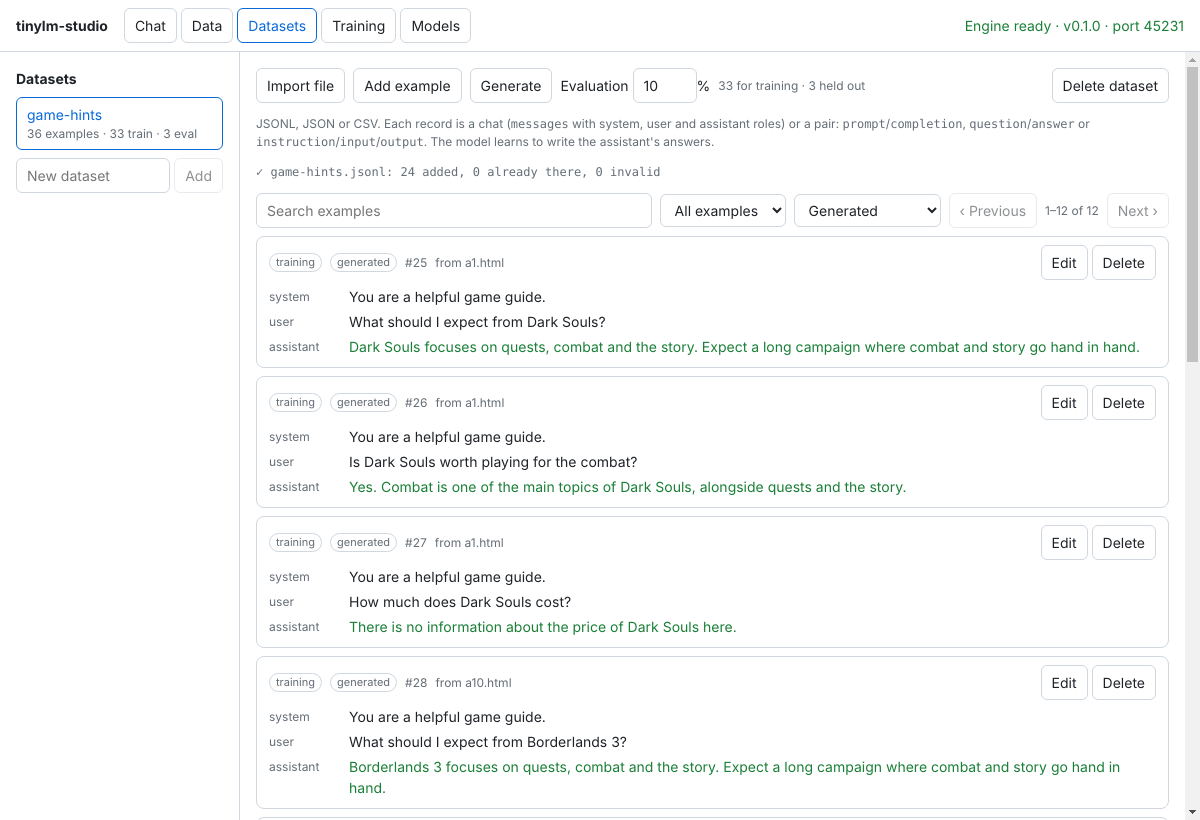
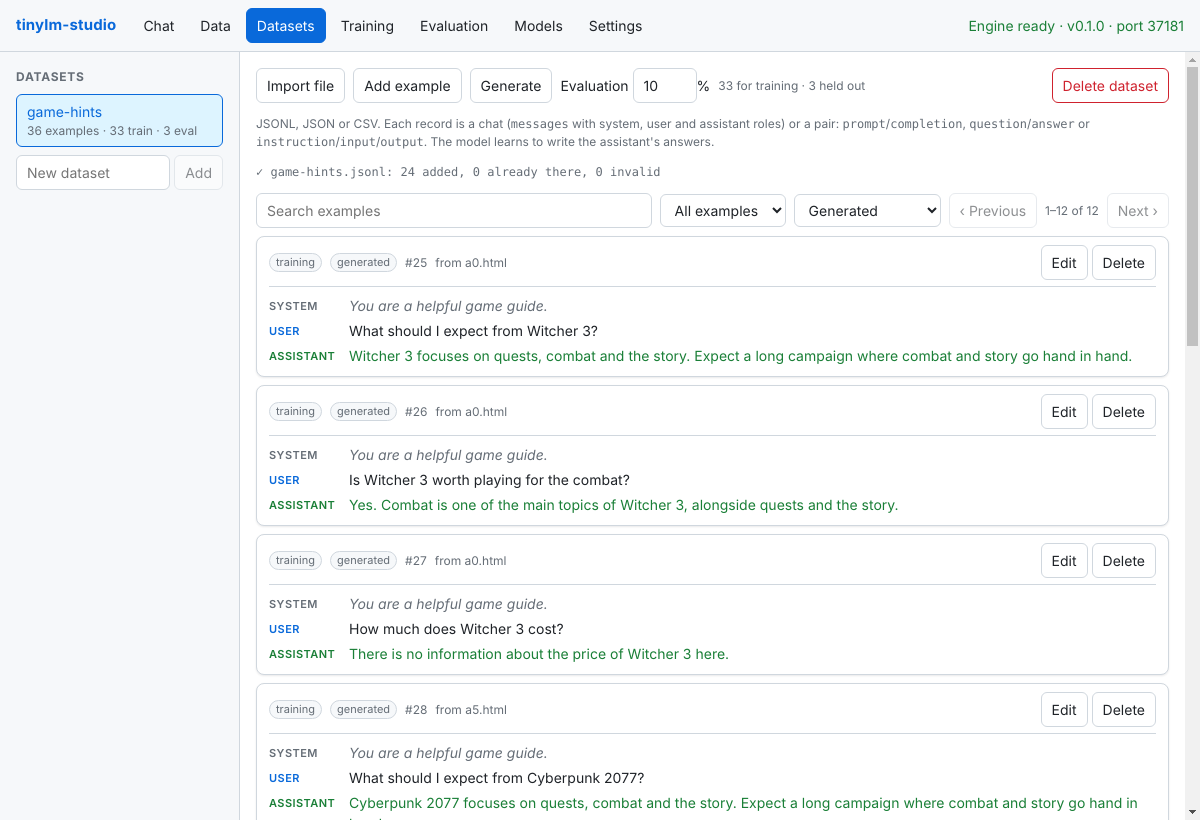
Desktop look: colored section titles, table headers, side lists and cards
Screens read as one block of text. Color tokens for the light and dark
themes now set apart page and panel titles, table headers, side lists,
cards, example roles (system, user, assistant) and badges; the active tab
and a form's main button are filled, a confirmed delete is red.

Claude-Session: https://claude.ai/code/session_01K6iyxnxtYDs5kNr5qmfTjK

diff --git a/desktop/src/renderer/styles.css b/desktop/src/renderer/styles.css
@@ -8,6 +8,18 @@
   --assistant: #f6f8fa;
   --ok: #1a7f37;
   --bad: #cf222e;
+  /* Surfaces and accents that set sections apart */
+  --surface: #f6f8fa;
+  --card: #ffffff;
+  --heading: #0a3069;
+  --accent-fill: #0969da;
+  --accent-soft: #ddf4ff;
+  --on-accent: #ffffff;
+  --th-bg: #eef3f9;
+  --row-hover: #f6f8fa;
+  --ok-soft: #dafbe1;
+  --bad-soft: #ffebe9;
+  --shadow: 0 1px 2px rgba(31, 35, 40, 0.06), 0 1px 3px rgba(31, 35, 40, 0.04);
   color-scheme: light dark;
 }
 @media (prefers-color-scheme: dark) {
@@ -21,6 +33,17 @@
     --assistant: #161b22;
     --ok: #3fb950;
     --bad: #f85149;
+    --surface: #010409;
+    --card: #161b22;
+    --heading: #79c0ff;
+    --accent-fill: #1f6feb;
+    --accent-soft: #0c2d4a;
+    --on-accent: #ffffff;
+    --th-bg: #1c2633;
+    --row-hover: #161b22;
+    --ok-soft: #12261e;
+    --bad-soft: #2d1214;
+    --shadow: 0 1px 2px rgba(0, 0, 0, 0.4);
   }
 }
 * { box-sizing: border-box; }
@@ -95,9 +118,9 @@ th, td { text-align: left; padding: 8px; border-bottom: 1px solid var(--border);
 .search .results label { display: flex; gap: 8px; align-items: flex-start; cursor: pointer; overflow-wrap: anywhere; }
 .search .snippet { font-size: 12px; }
 .search .buttons { align-items: center; }
-.search .notice { color: var(--good, #1a7f37); margin-right: 8px; }
+.search .notice { color: var(--ok); margin-right: 8px; }
 .search .mark { font-weight: normal; font-size: 12px; }
-.search .mark.ok { color: var(--good, #1a7f37); }
+.search .mark.ok { color: var(--ok); }
 .search .mark.bad { color: var(--bad); }
 .search .mark.muted { color: var(--muted); }
 .data .actions { flex-wrap: wrap; }
@@ -214,3 +237,68 @@ th, td { text-align: left; padding: 8px; border-bottom: 1px solid var(--border);
 .download-progress { display: flex; align-items: center; gap: 8px; margin-top: 4px; }
 .download-progress .progress { flex: 1; max-width: 360px; }
 .model-settings select { max-width: 160px; }
+
+/* Visual design: colored titles, table headers and cards so sections stand apart */
+header { background: var(--surface); }
+header > strong { color: var(--accent); font-size: 15px; letter-spacing: 0.01em; }
+nav button { border-color: transparent; background: transparent; }
+nav button:hover { background: var(--accent-soft); }
+nav button.active { background: var(--accent-fill); border-color: var(--accent-fill); color: var(--on-accent); }
+button:not(:disabled):hover { border-color: var(--accent); }
+button[type="submit"]:not(:disabled), button.primary:not(:disabled) { background: var(--accent-fill); border-color: var(--accent-fill); color: var(--on-accent); }
+button.danger:not(:disabled) { background: var(--bad); border-color: var(--bad); color: #ffffff; }
+span.danger { color: var(--bad); }
+a { color: var(--accent); }
+
+/* Section titles: page headings and the first line of a panel */
+h3 { color: var(--heading); font-size: 16px; padding-bottom: 6px; border-bottom: 2px solid var(--accent-soft); }
+.settings-form h3 { padding-bottom: 6px; }
+.settings-form h4, .model-settings h4 { color: var(--accent); }
+.trace-dialog h4 { color: var(--accent); }
+aside > strong:first-child,
+.websites-head > strong,
+.training-form > strong:first-child { color: var(--heading); font-size: 15px; }
+.websites-head > h3 { flex: 1; margin: 0 16px 0 0; }
+
+/* Side lists */
+.data aside { background: var(--surface); }
+.data aside > strong:first-child { text-transform: uppercase; font-size: 12px; letter-spacing: 0.06em; color: var(--muted); }
+.data aside button { background: var(--card); }
+.data aside button.active, .settings aside button.active { background: var(--accent-soft); border-color: var(--accent); }
+
+/* Tables */
+th { background: var(--th-bg); color: var(--heading); font-size: 12px; font-weight: 600; text-transform: uppercase; letter-spacing: 0.04em; border-bottom: 2px solid var(--border); }
+thead th:first-child { border-top-left-radius: 6px; }
+thead th:last-child { border-top-right-radius: 6px; }
+tbody tr:hover > td { background: var(--row-hover); }
+.repo-files tr:hover > td { background: transparent; }
+.teacher-requests th { color: var(--heading); text-transform: none; letter-spacing: 0; }
+.teacher-requests tr.failed td { background: var(--bad-soft); }
+
+/* Cards */
+.example, .job, .websites, .search, .training-form, .model-settings, .provider, .teacher-form, .example-editor {
+  background: var(--card);
+  box-shadow: var(--shadow);
+}
+.data section, .models, .training, .settings-page { background: var(--bg); }
+.provider.active { background: var(--accent-soft); }
+.example-head { padding-bottom: 6px; margin-bottom: 6px; border-bottom: 1px solid var(--border); }
+
+/* Who says what in an example: colored role labels */
+.turn .role { font-weight: 600; text-transform: uppercase; font-size: 11px; letter-spacing: 0.04em; padding-top: 3px; }
+.turn.system .role { color: var(--muted); }
+.turn.system .text { color: var(--muted); font-style: italic; }
+.turn.user .role { color: var(--accent); }
+.turn.assistant .role { color: var(--ok); }
+
+/* Badges with a tint, not only a border */
+.badge { background: var(--surface); }
+.badge.eval, .badge.running, .badge.stopping { background: var(--accent-soft); }
+.badge.done { background: var(--ok-soft); }
+.badge.error { background: var(--bad-soft); }
+
+/* Chat bubbles */
+.message.user { border: 1px solid var(--accent-soft); }
+.message.assistant { border: 1px solid var(--border); }
+/* A first-step delete only hints at danger; the confirming button is filled */
+.data .actions > button.danger:not(:disabled) { background: transparent; color: var(--bad); }

diff --git a/desktop/src/renderer/ModelSettingsForm.tsx b/desktop/src/renderer/ModelSettingsForm.tsx
@@ -239,7 +239,9 @@ export function ModelSettingsForm({
         {numberField(SOURCES)}
       </div>
       <div className="buttons-row">
-        <button onClick={() => save(value)}>Save</button>{" "}
+        <button className="primary" onClick={() => save(value)}>
+          Save
+        </button>{" "}
         <button onClick={() => save({})}>Reset to defaults</button>{" "}
         <button onClick={onDone}>Cancel</button>
       </div>

diff --git a/docs/implementation-plan.md b/docs/implementation-plan.md
@@ -121,6 +121,7 @@ Requirement (confirmed by the user): the engine supports both APIs as first-clas
 - The main process launches the engine as a child process, waits for `/health`, and shuts it down on exit.
 - Screens: **Chat** (pick model, see cited sources), **Data** (drag-and-drop files and folders, ingestion status), **Datasets** (preview/edit examples), **Training** (configure, start, live loss chart, stop/resume), **Models** (list, export, delete, copy API endpoint snippet), **Settings** (hardware, API keys, storage path).
 - The renderer only talks HTTP; it never touches Python directly. A TypeScript client is generated from the engine's OpenAPI schema.
+- Look: one stylesheet (`desktop/src/renderer/styles.css`) with color tokens for a light and a dark theme, picked by the system setting. Section titles, table headers, side lists and cards get their own colors so a screen does not read as one block of text; the main action of a form is a filled button, a confirmed delete a red one.
 
 ### 3.5 Hardware acceleration
 

diff --git a/docs/user-guide.md b/docs/user-guide.md
@@ -46,6 +46,10 @@ in the engine; each tab keeps its form, selection and progress while another one
 refreshes its lists when you come back. Closing the app stops the engine, and with it a run in
 progress.
 
+The app follows the system's light or dark theme. Colors carry meaning across the tabs: blue for
+section titles, table headers, the selected item and the main button of a form; green for the
+assistant's answers and finished runs; red for errors and for the button that confirms a delete.
+
 ## Chat
 
 ![Chat with answers from a collection](images/chat.png)
